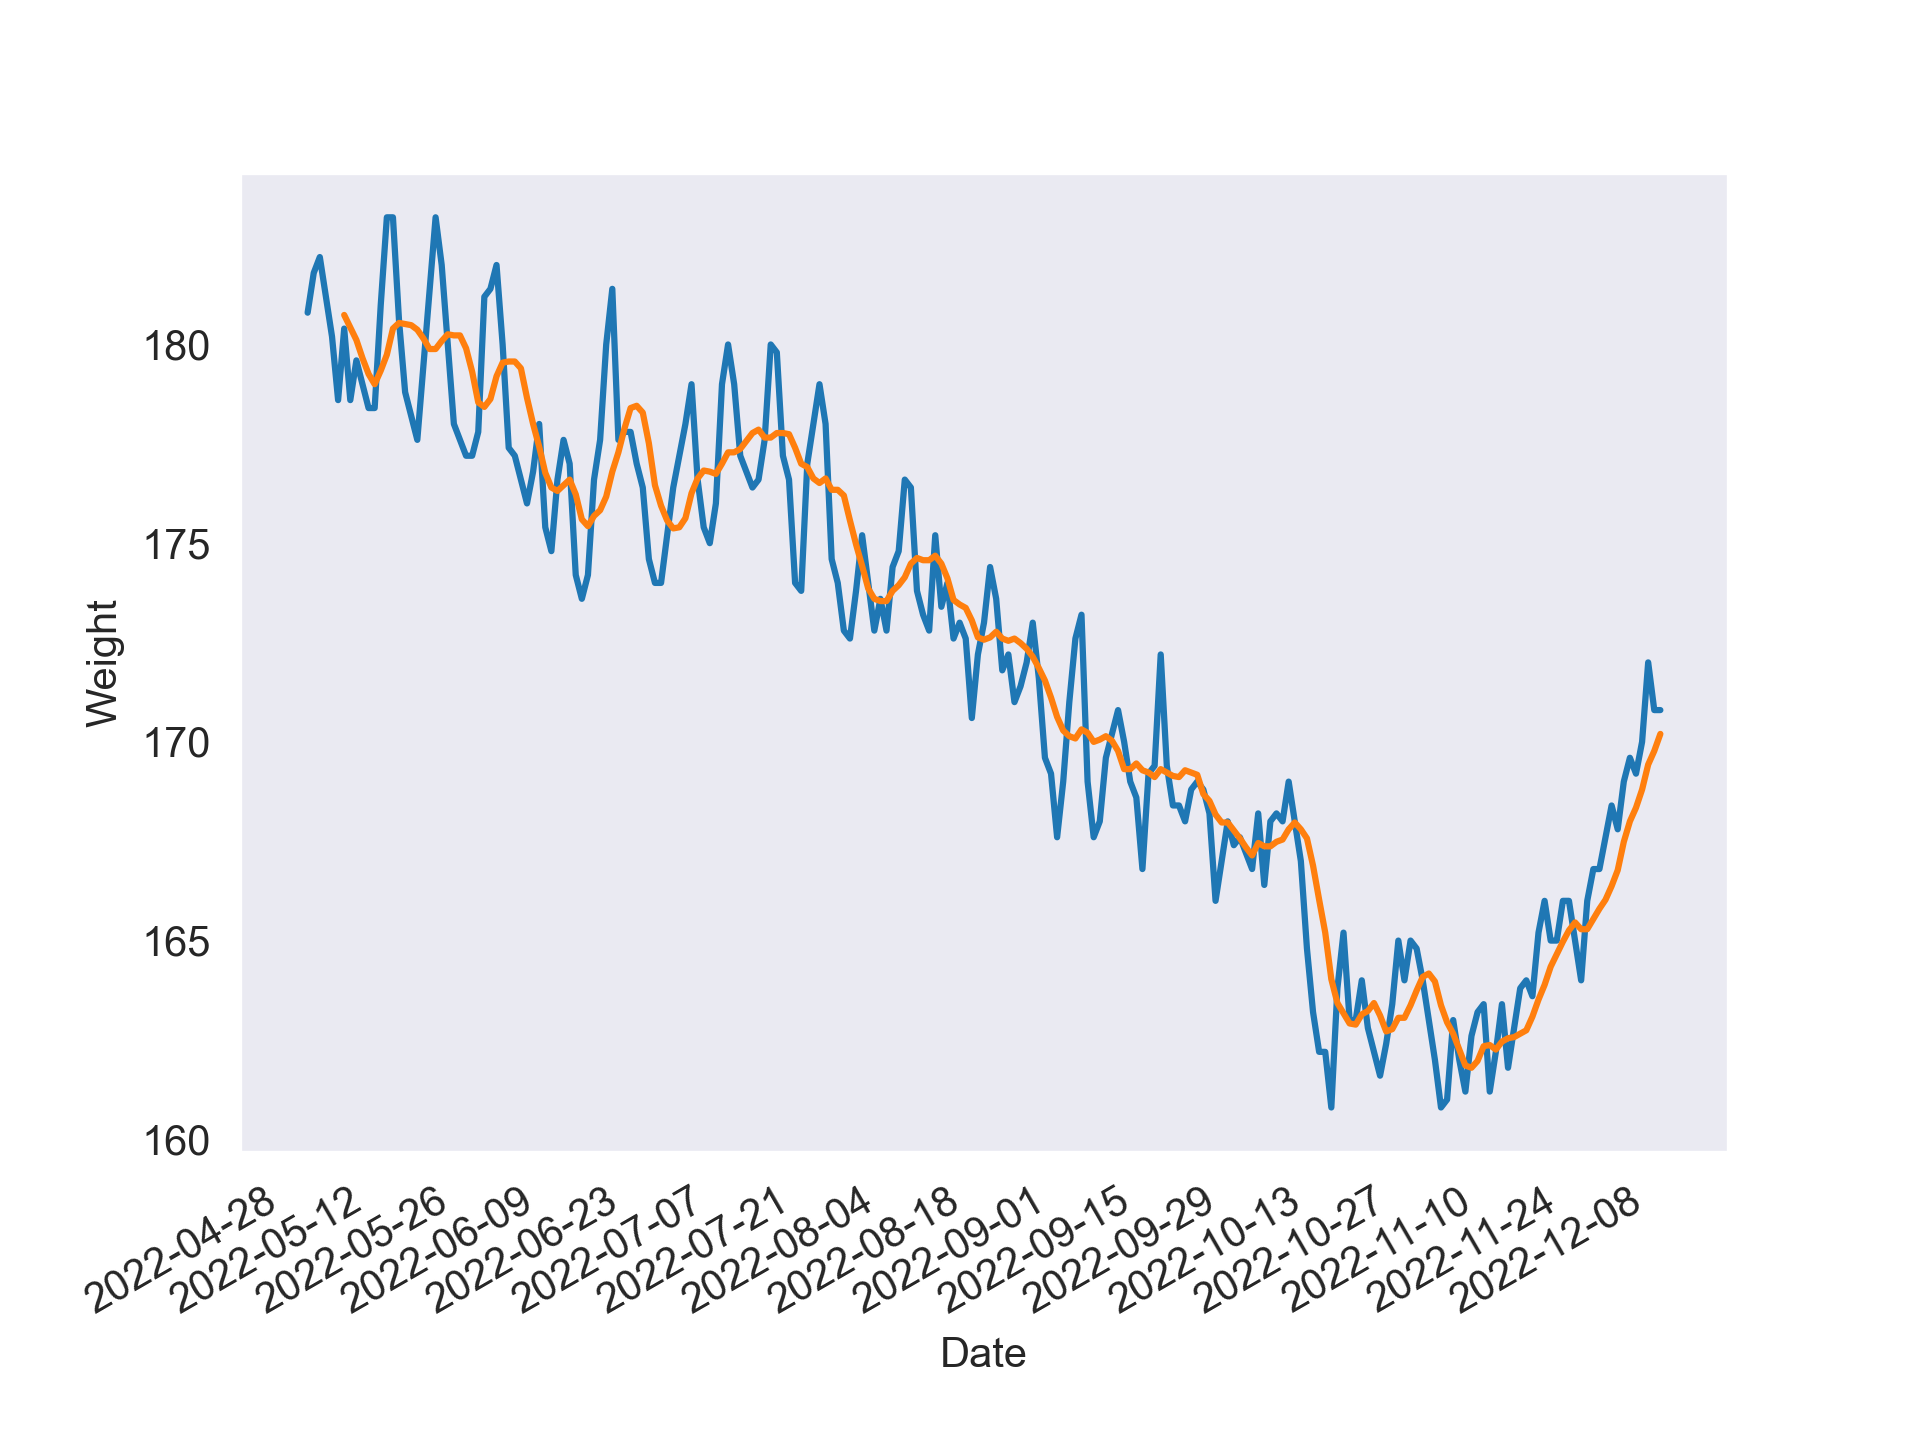
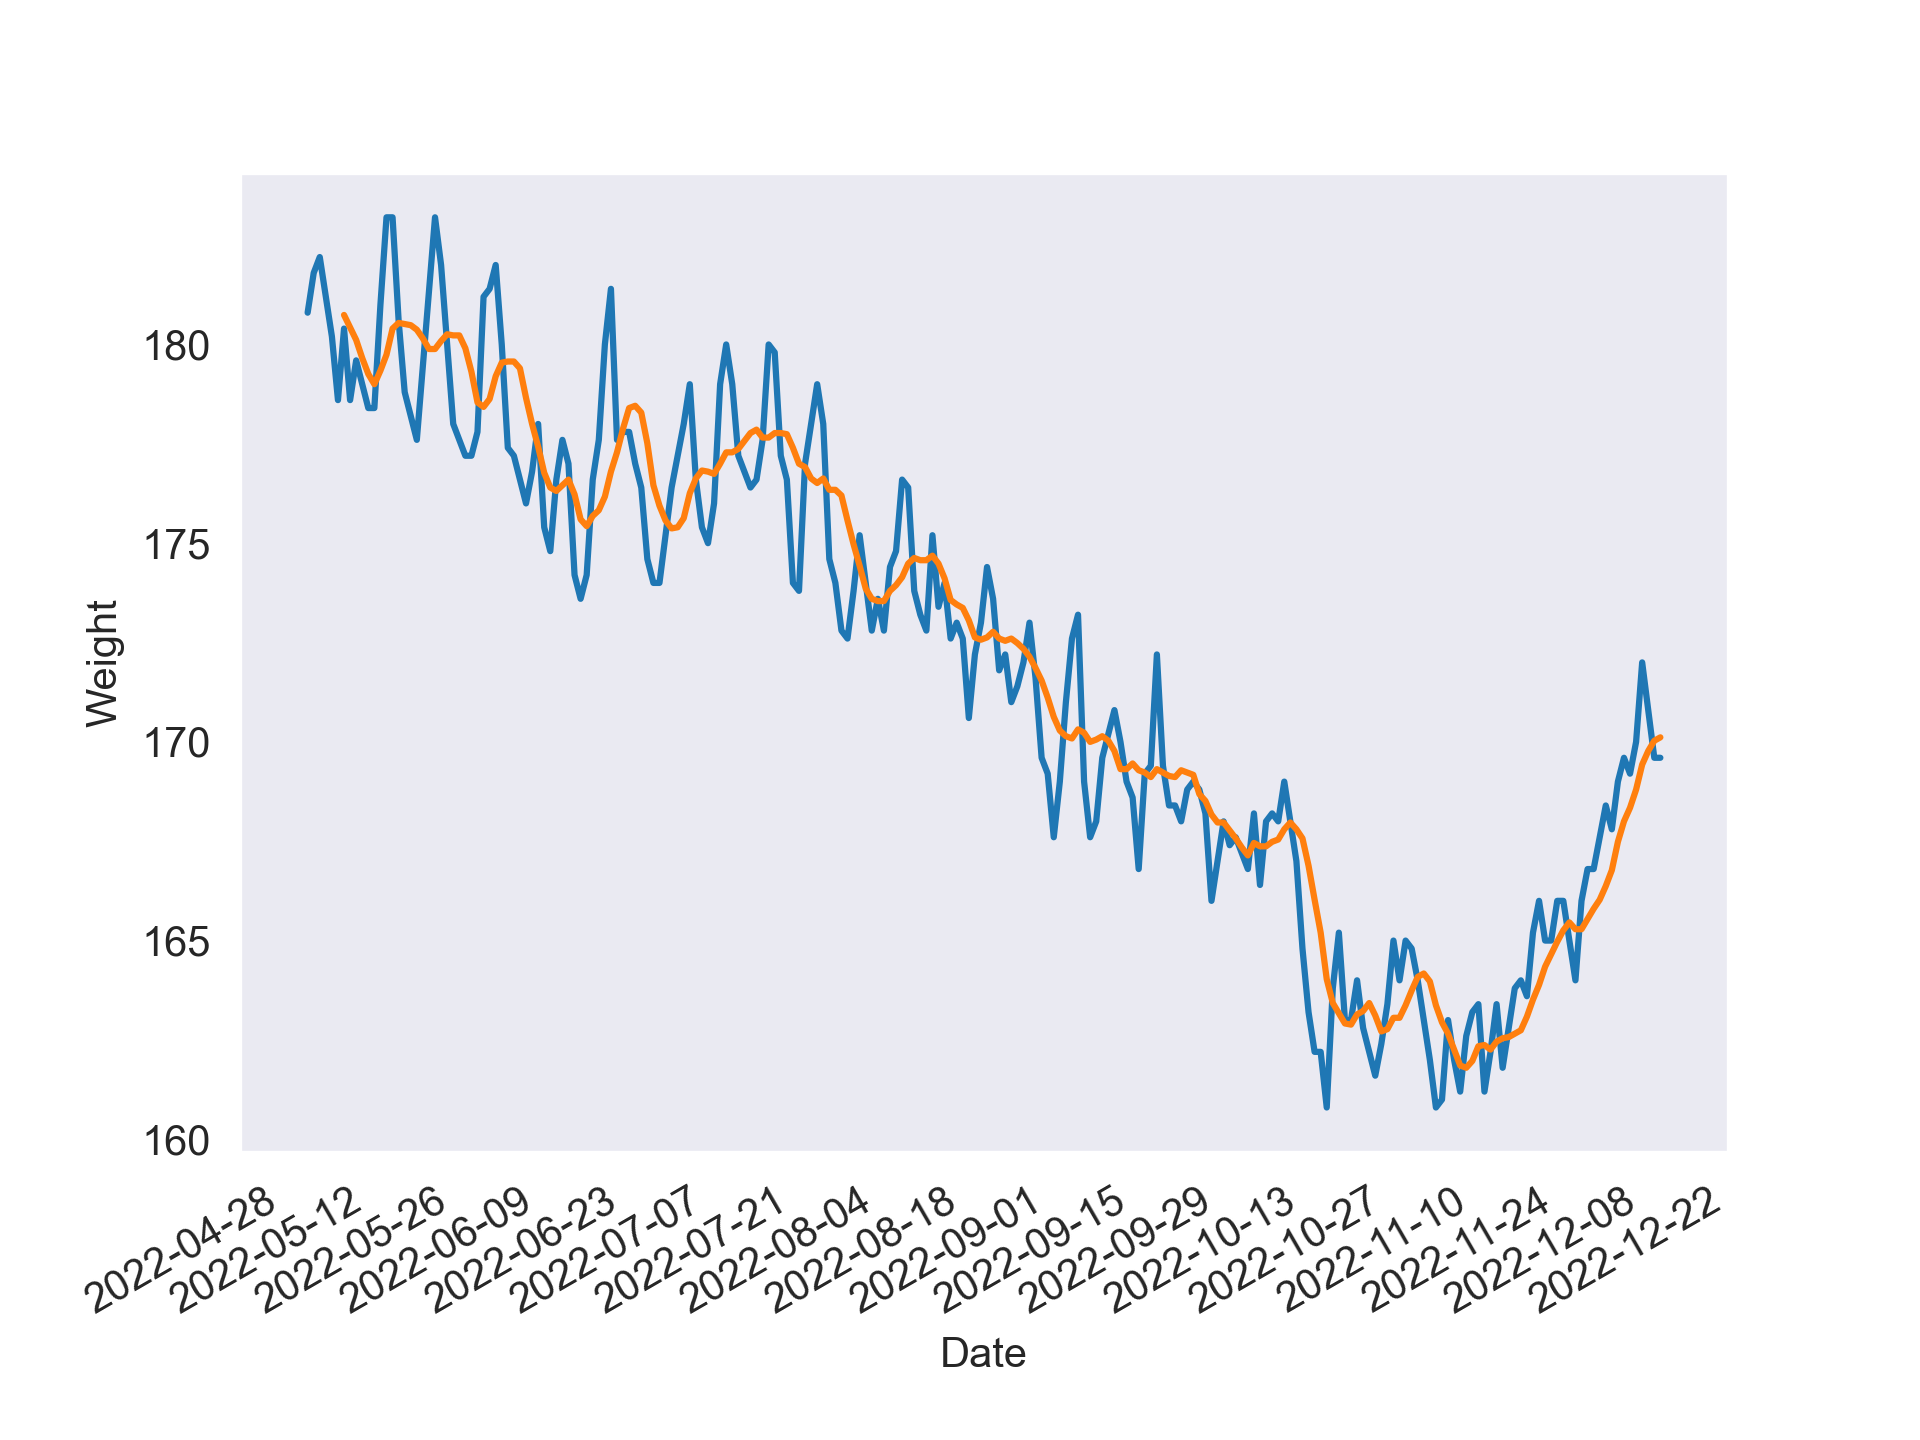
update

Changed region(s): [[0.1875, 0.2188, 0.875, 0.7812], [0.125, 0.8125, 0.9062, 0.9062]]

diff --git a/visualizations.py b/visualizations.py
@@ -6,7 +6,7 @@ Created on Sat May 28 17:57:00 2022
 This code generates graphs of daily weight & calories
 """
 
-# import numpy as np
+import numpy as np
 import pandas as pd
 import seaborn as sns
 import matplotlib.pyplot as plt
@@ -31,16 +31,14 @@ sheet = client.open("Weight Tracker").sheet1
 
 data = sheet.get_all_records()
 
-#save as csv
+# save as csv
 
-dataFrame = pd.DataFrame(data)
-dataFrame.to_csv('Autology_Data.csv')
-
-##### Grab the Data
-
-dataset = pd.read_csv('Autology_Data.csv')
+dataset = pd.DataFrame(data)
+dataset.to_csv('Autology_Data.csv')
 
 ##### Clean dataset
+
+dataset = dataset.replace(r'^\s*$', np.nan, regex=True)
 
 dataset = dataset[['Date', 
                    'Goal Weight', 
@@ -62,13 +60,11 @@ dataset = dataset.loc[(dataset['Date'] > '2022-05-01') &
 
 dataset['Weight'] = dataset['Weight'].interpolate(method = 'linear')
 
-print(date.today().strftime("%Y-%m-%d"))
 
 ##### Add Weekly moving average
 
 dataset['Weekly Avg Weight'] = dataset['Weight'].rolling(7).mean()
 dataset['Weekly Avg Calories'] = dataset['Calories'].rolling(7).mean()
-print(dataset)
 
 ####### Plot Weight
 

diff --git a/README.md b/README.md
@@ -1,2 +1,10 @@
 # WeightTracker
-Tracking my weight and calories
+This repo tracks my weight and calories. I record my weight and calories in a Google Sheet every day. I then use the Google Cloud API to pull the data into a dataframe and create the charts below
+
+# Weight
+
+<img src="weight.png" alt="weight" width="600"/>
+
+# Calories
+
+<img src="calories.png" alt="calories" width="600"/>
